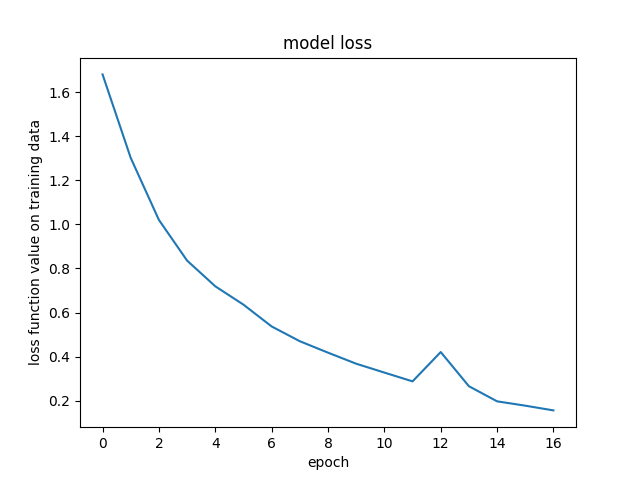
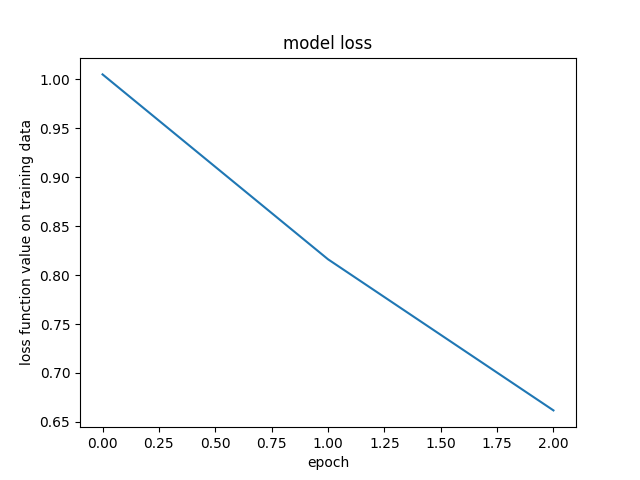
resume traning

diff --git a/Inception_NET/Inception-Net.py b/Inception_NET/Inception-Net.py
@@ -19,6 +19,7 @@ import argparse
 from tensorflow.keras.datasets import cifar10
 from sklearn.metrics import f1_score, precision_score, recall_score, confusion_matrix, accuracy_score
 import time
+from keras.callbacks import ModelCheckpoint
 
 
 
@@ -108,21 +109,28 @@ if __name__ == '__main__':
         train_images,test_images,train_labels,test_labels,class_names=data_load()
 
         if args.inps == 'tune' :
+            if not os.path.exists(args.model_dir):
+                os.makedirs(args.model_dir)
+                INET=tf.keras.applications.inception_v3.InceptionV3(
+                                                                    include_top=False,
+                                                                    weights='imagenet',
+                                                                    input_tensor=None,
+                                                                    input_shape=(96,96,3),
+                                                                    pooling=None,
+                                                                    classes=len(class_names),
+                                                                    classifier_activation='softmax'
+                                                                    )
+                Model=model_init(INET, class_names)
+                early_stop = callbacks.EarlyStopping(monitor='val_loss', mode='min', verbose=1, patience=7)
+                checkpoint = ModelCheckpoint(args.model_dir, monitor='loss', verbose=1, save_best_only=True, mode='min')
 
-            INET=tf.keras.applications.inception_v3.InceptionV3(
-                                                                include_top=False,
-                                                                weights='imagenet',
-                                                                input_tensor=None,
-                                                                input_shape=(96,96,3),
-                                                                pooling=None,
-                                                                classes=len(class_names),
-                                                                classifier_activation='softmax'
-                                                                )
-            Model=model_init(INET, class_names)
-            early_stop = callbacks.EarlyStopping(monitor='val_loss', mode='min', verbose=1, patience=7)
-            Model.compile(loss='categorical_crossentropy',
-                          optimizer='adam',
-                          metrics=['accuracy'])
+                Model.compile(loss='categorical_crossentropy',
+                              optimizer='adam',
+                              metrics=['accuracy'])
+            else:
+                Model=tf.keras.models.load_model(args.model_dir, custom_objects=None, compile=True, options=None)
+                early_stop = callbacks.EarlyStopping(monitor='val_loss', mode='min', verbose=1, patience=7)
+                checkpoint = ModelCheckpoint(args.model_dir, monitor='loss', verbose=1, save_best_only=True, mode='min')
             os.system('clear')
             print('************************ Fine tuning ************************')
             history = Model.fit(train_images, 
@@ -131,20 +139,11 @@ if __name__ == '__main__':
                       batch_size=args.b_s,
                       verbose=1,
                       validation_data=(test_images,test_labels),
-                      callbacks = [early_stop]
+                      callbacks = [early_stop,checkpoint]
                    )
             A_L_Plot(history)
-            if not os.path.exists(args.model_dir):
-                os.makedirs(args.model_dir)
-            tf.keras.models.save_model(
-                Model,
-                args.model_dir,
-                overwrite=True,
-                include_optimizer=True,
-                save_format=None,
-                signatures=None,
-                options=None,
-                save_traces=True,)
+
+
         if args.inps == 'test':
             os.system('clear')
             print('************************ testing ************************')
@@ -168,6 +167,9 @@ if __name__ == '__main__':
     
         if args.inps == 'train':
 
+            if not os.path.exists(args.model_dir):
+                os.makedirs(args.model_dir)
+
             INET=tf.keras.applications.inception_v3.InceptionV3(
                                                                 include_top=False,
                                                                 weights=None,
@@ -179,6 +181,8 @@ if __name__ == '__main__':
                                                                 )
             Model=model_init(INET, class_names)
             early_stop = callbacks.EarlyStopping(monitor='val_loss', mode='min', verbose=1, patience=7)
+            checkpoint = ModelCheckpoint(args.model_dir, monitor='loss', verbose=1, save_best_only=True, mode='min')
+
             Model.compile(loss='categorical_crossentropy',
                           optimizer='adam',
                           metrics=['accuracy'])
@@ -190,17 +194,30 @@ if __name__ == '__main__':
                       batch_size=args.b_s,
                       verbose=1,
                       validation_data=(test_images,test_labels),
-                      callbacks = [early_stop]
+                      callbacks = [early_stop,checkpoint]
                    )
             A_L_Plot(history)
+
+        if args.inps  == 'resume':
+
+
             if not os.path.exists(args.model_dir):
-                os.makedirs(args.model_dir)
-            tf.keras.models.save_model(
-                Model,
-                args.model_dir,
-                overwrite=True,
-                include_optimizer=True,
-                save_format=None,
-                signatures=None,
-                options=None,
-                save_traces=True,)
+                os.system('clear')
+                print('********************************************** no  check point  found ********************************************** ')
+            else:
+                Model=tf.keras.models.load_model(args.model_dir, custom_objects=None, compile=True, options=None)
+                early_stop = callbacks.EarlyStopping(monitor='val_loss', mode='min', verbose=1, patience=7)
+                checkpoint = ModelCheckpoint(args.model_dir, monitor='loss', verbose=1, save_best_only=True, mode='min')
+                os.system('clear')
+                print('************************ Resuming Traning from check point************************')
+                history = Model.fit(train_images, 
+                          train_labels,
+                          epochs=args.e,
+                          batch_size=args.b_s,
+                          verbose=1,
+                          validation_data=(test_images,test_labels),
+                          callbacks = [early_stop,checkpoint]
+                       )
+                A_L_Plot(history)
+
+

diff --git a/M0bile_Net/Mobile-Net.py b/M0bile_Net/Mobile-Net.py
@@ -27,7 +27,7 @@ import argparse
 from tensorflow.keras.datasets import cifar10
 from sklearn.metrics import f1_score, precision_score, recall_score, confusion_matrix, accuracy_score
 import time
-
+from keras.callbacks import ModelCheckpoint
 
 
 # In[2]:
@@ -117,15 +117,22 @@ if __name__ == '__main__':
 
         train_images,test_images,train_labels,test_labels,class_names=data_load()
 
-        if args.inps == 'tune' :
-            MobileNetV2 = MobileNetV2(include_top=False,
-                            input_shape=(96,96,3),
-                              weights="imagenet",
-                              classes=len(class_names),
-                                alpha=1.0,
-                               input_tensor=None)
-            Model=model_init(MobileNetV2,class_names)
-            early_stop = callbacks.EarlyStopping(monitor='val_loss', mode='min', verbose=1, patience=7)
+        if args.inps == 'tune':
+            if not os.path.exists(args.model_dir):
+                os.makedirs(args.model_dir)
+                MobileNetV2 = MobileNetV2(include_top=False,
+                                input_shape=(96,96,3),
+                                  weights="imagenet",
+                                  classes=len(class_names),
+                                    alpha=1.0,
+                                   input_tensor=None)
+                Model=model_init(MobileNetV2,class_names)
+                early_stop = callbacks.EarlyStopping(monitor='val_loss', mode='min', verbose=1, patience=7)
+                checkpoint = ModelCheckpoint(args.model_dir, monitor='loss', verbose=1, save_best_only=True, mode='min')
+            else : 
+                Model=tf.keras.models.load_model(args.model_dir, custom_objects=None, compile=True, options=None)
+                early_stop = callbacks.EarlyStopping(monitor='val_loss', mode='min', verbose=1, patience=7)
+                checkpoint = ModelCheckpoint(args.model_dir, monitor='loss', verbose=1, save_best_only=True, mode='min')
             Model.compile(loss='categorical_crossentropy',
                           optimizer='adam',
                           metrics=['accuracy'])
@@ -135,21 +142,13 @@ if __name__ == '__main__':
                       batch_size=args.b_s,
                       verbose=1,
                       validation_data=(test_images,test_labels),
-                      callbacks = [early_stop]
+                      callbacks = [early_stop, checkpoint]
                    )
             A_L_Plot(history)
-            if not os.path.exists(args.model_dir):
-                os.makedirs(args.model_dir)
-            tf.keras.models.save_model(
-                Model,
-                args.model_dir,
-                overwrite=True,
-                include_optimizer=True,
-                save_format=None,
-                signatures=None,
-                options=None,
-                save_traces=True,)
+
+
         if args.inps == 'test':
+
             M1=tf.keras.models.load_model(args.model_dir, custom_objects=None, compile=True, options=None)
             [a,b,c,d]=(np.shape(test_images))
             t=time.time()
@@ -170,6 +169,8 @@ if __name__ == '__main__':
 
 
         if args.inps == 'train' :
+            if not os.path.exists(args.model_dir):
+                os.makedirs(args.model_dir)
             MobileNetV2 = MobileNetV2(include_top=False,
                             input_shape=(96,96,3),
                               weights=None,
@@ -178,6 +179,7 @@ if __name__ == '__main__':
                                input_tensor=None)
             Model=model_init(MobileNetV2,class_names)
             early_stop = callbacks.EarlyStopping(monitor='val_loss', mode='min', verbose=1, patience=7)
+            checkpoint = ModelCheckpoint(args.model_dir, monitor='loss', verbose=1, save_best_only=True, mode='min')
             Model.compile(loss='categorical_crossentropy',
                           optimizer='adam',
                           metrics=['accuracy'])
@@ -187,17 +189,28 @@ if __name__ == '__main__':
                       batch_size=args.b_s,
                       verbose=1,
                       validation_data=(test_images,test_labels),
-                      callbacks = [early_stop]
+                      callbacks = [early_stop, checkpoint]
                    )
             A_L_Plot(history)
+        
+        if args.inps  == 'resume':
             if not os.path.exists(args.model_dir):
-                os.makedirs(args.model_dir)
-            tf.keras.models.save_model(
-                Model,
-                args.model_dir,
-                overwrite=True,
-                include_optimizer=True,
-                save_format=None,
-                signatures=None,
-                options=None,
-                save_traces=True,)
+                os.system('clear')
+                print('********************************************** no  check point  found ********************************************** ')
+            else:
+                Model=tf.keras.models.load_model(args.model_dir, custom_objects=None, compile=True, options=None)
+                early_stop = callbacks.EarlyStopping(monitor='val_loss', mode='min', verbose=1, patience=7)
+                checkpoint = ModelCheckpoint(args.model_dir, monitor='loss', verbose=1, save_best_only=True, mode='min')
+                os.system('clear')
+                print('************************ Resuming Traning from check point************************')
+                history = Model.fit(train_images, 
+                          train_labels,
+                          epochs=args.e,
+                          batch_size=args.b_s,
+                          verbose=1,
+                          validation_data=(test_images,test_labels),
+                          callbacks = [early_stop,checkpoint]
+                       )
+                A_L_Plot(history)
+
+
